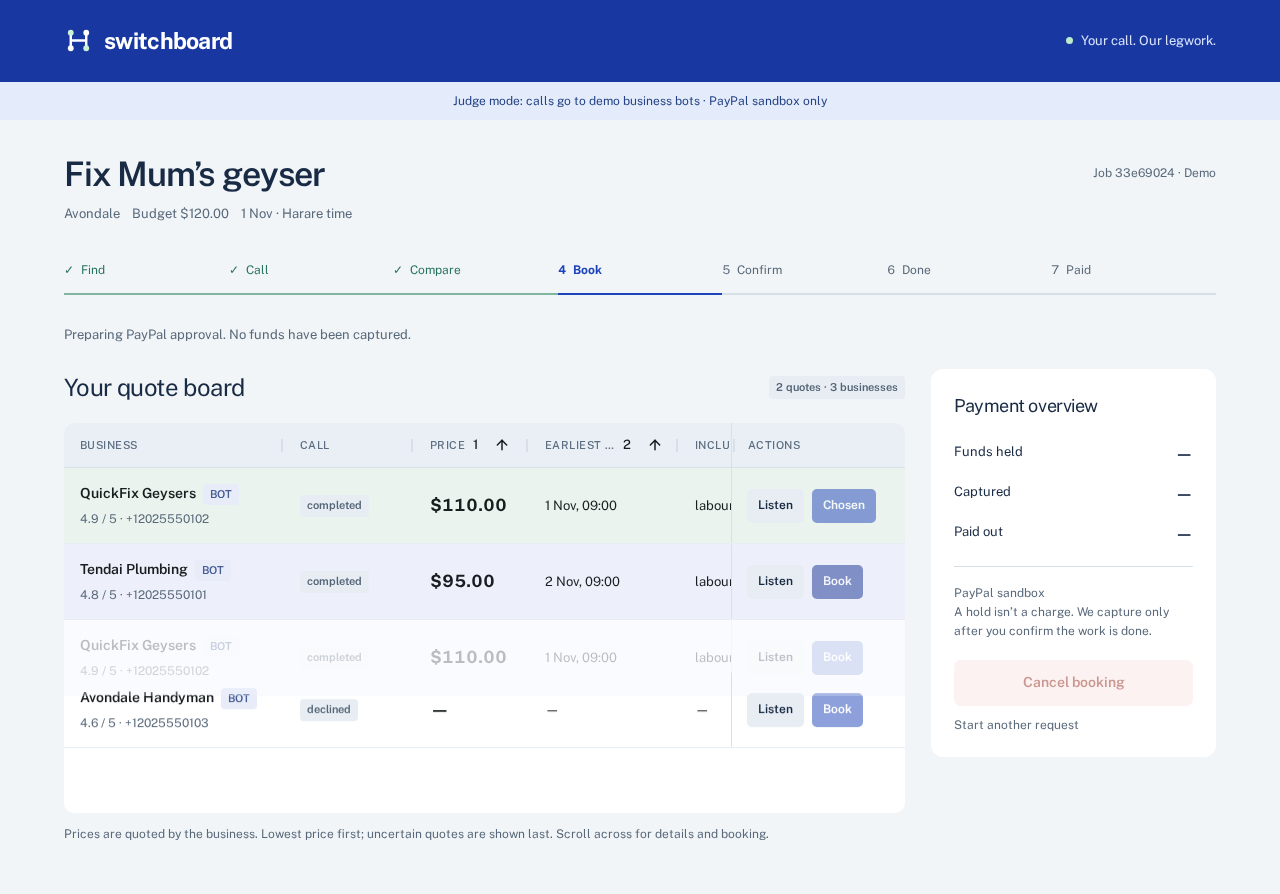
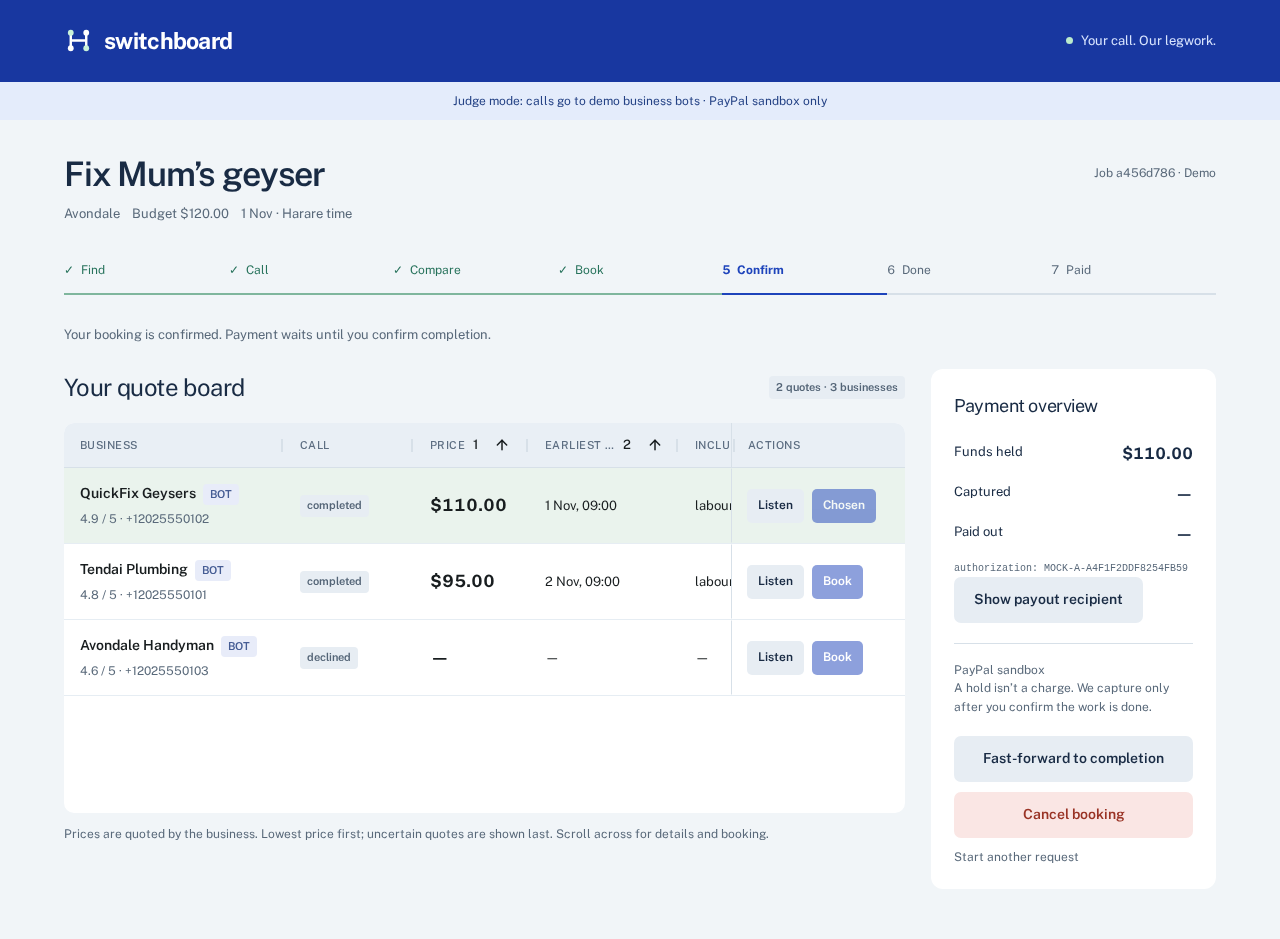
Wait for confirmed booking before capturing board previews

diff --git a/tests/e2e/board.spec.ts b/tests/e2e/board.spec.ts
@@ -26,7 +26,9 @@ test("live quotes and mock booking approval", async ({ page }) => {
     .and(page.locator(":enabled"))
     .first()
     .click();
-  await expect(page.getByText("Funds held", { exact: true })).toBeVisible({
+  await expect(
+    page.getByRole("button", { name: "Fast-forward to completion" }),
+  ).toBeVisible({
     timeout: 20000,
   });
   await expect(page.getByText("$95.00", { exact: true }).first()).toBeVisible();
